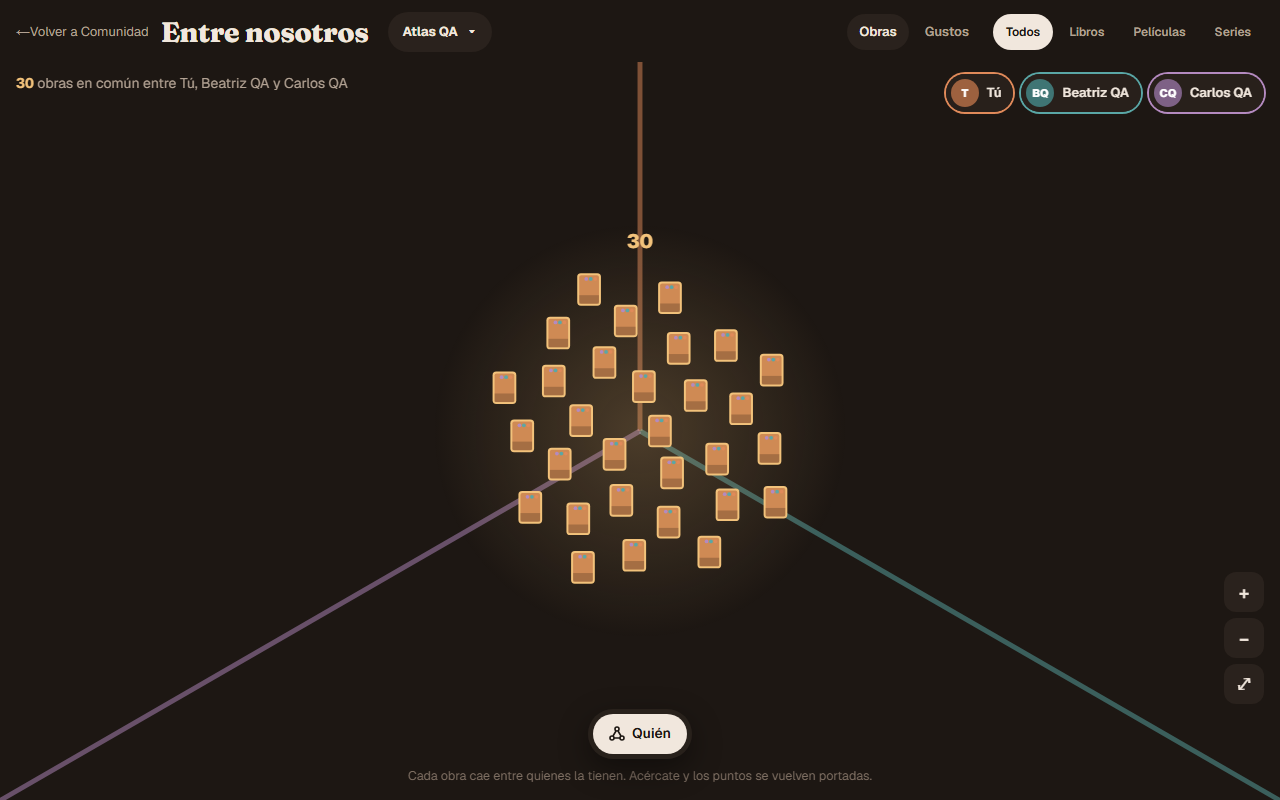
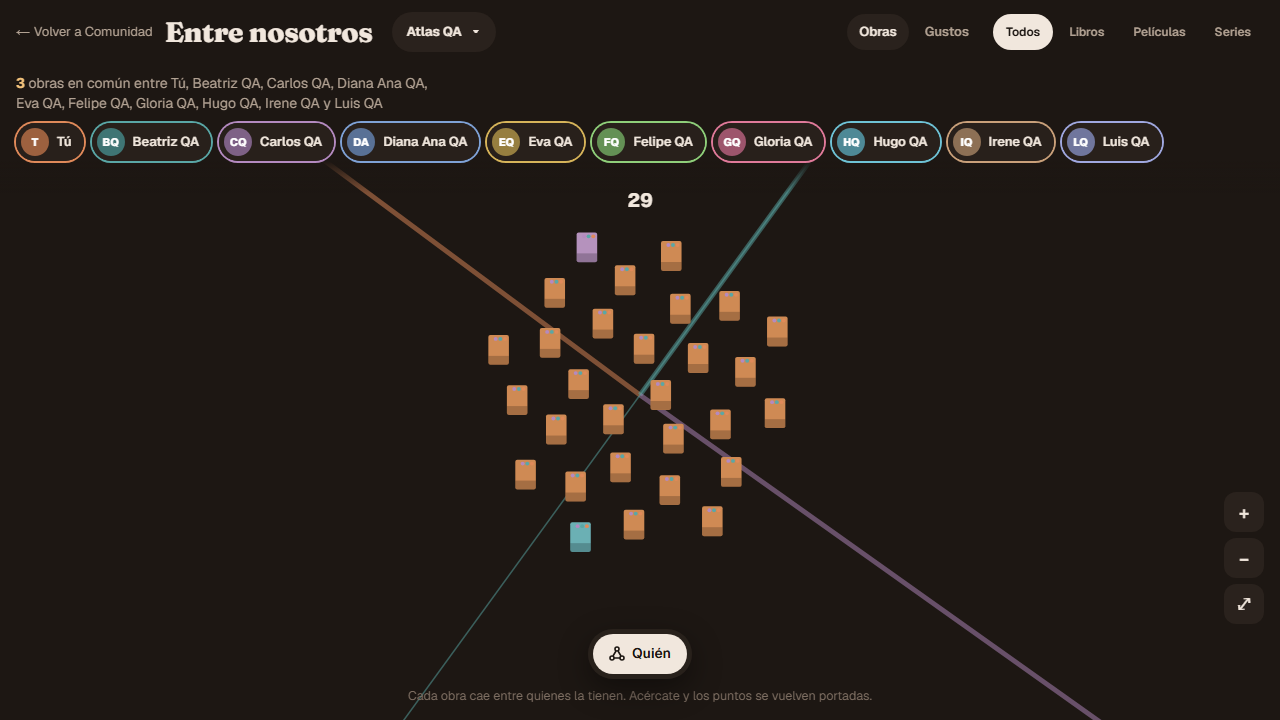
fix(entre-nosotros): cabecera móvil compacta, velo del atlas, vuelo a portadas y títulos legibles
Arregla los seis problemas visuales de las capturas de F1: cabecera móvil en dos filas (flecha solo icono, secciones y formatos en una fila desplazable), aros de las caras sin recortar, velo bajo resumen y caras con encaje que respeta las capas, «Abrir ficha» en una línea, vuelo al grupo en nivel portadas con títulos de 9-14 px y hoja de grupos como tarjeta completa. Capturas retomadas y evidencia actualizada.

diff --git a/src/components/comparisons/atlas/atlas-engine.ts b/src/components/comparisons/atlas/atlas-engine.ts
@@ -10,7 +10,9 @@ export const TITLE_ZOOM = 3.2;
 export type AtlasHit = { key: WorkKey; x: number; y: number };
 export type EngineProps = { people: AtlasPerson[]; works: AtlasWork[]; active: string[]; layout: QuienLayout;
   countLabel: (count: number) => string; onTogglePerson: (id: string) => void;
-  onHover: (hit: AtlasHit | null) => void; onActivate: (hit: AtlasHit | null, pointerType: string) => void };
+  onHover: (hit: AtlasHit | null) => void; onActivate: (hit: AtlasHit | null, pointerType: string) => void;
+  /** Screen space covered by the overlays (summary + faces on top, lens dock below); fit and fly-to frame the free band. */
+  insets?: { top: number; bottom: number } };
 type Sprite = { x: number; y: number; tx: number; ty: number; a: number; ta: number; hl: number; thl: number };
 type Palette = { fg: string; muted: string; line: string; glow: string; cream: string; font: string;
   type: Record<AtlasWork['itemType'], string> };
@@ -33,14 +35,19 @@ export function createAtlasEngine(canvas: HTMLCanvasElement, host: HTMLElement, 
   let extentKey = ''; let raf = 0; let disposed = false; let dirtyProbe = true;
   const sprites = new Map<WorkKey, Sprite>();
 
-  const fitCamera = () => fit(props().layout.extent, vp, { x: 32, y: 150 });
+  const insets = () => props().insets ?? { top: 75, bottom: 75 };
+  /** Shifts a camera so that its focus lands in the middle of the band between the overlays. */
+  const framed = (c: Camera): Camera => { const { top, bottom } = insets(); return { ...c, y: c.y - (top - bottom) / 2 / c.k }; };
+  const fitCamera = () => { const { top, bottom } = insets(); return framed(fit(props().layout.extent, vp, { x: 32, y: top + bottom + 24 })); };
+  let lastFit: Camera | null = null; let insetsKey = '';
+  const refit = () => { lastFit = fitCamera(); target = lastFit; };
   function kick() { dirtyProbe = true; if (!raf && !disposed && typeof requestAnimationFrame === 'function') raf = requestAnimationFrame(frame); }
   function resize() {
     dpr = Math.min(2, globalThis.devicePixelRatio || 1);
     vp = { width: host.clientWidth, height: host.clientHeight };
     canvas.width = Math.round(vp.width * dpr); canvas.height = Math.round(vp.height * dpr);
     palette = readPalette(host);
-    if (!fitted && vp.width > 0 && vp.height > 0) { cam = fitCamera(); fitted = true; }
+    if (!fitted && vp.width > 0 && vp.height > 0) { cam = lastFit = fitCamera(); fitted = true; }
     kick();
   }
   function sync() {
@@ -55,7 +62,14 @@ export function createAtlasEngine(canvas: HTMLCanvasElement, host: HTMLElement, 
     }
     for (const key of [...sprites.keys()]) if (!seen.has(key)) sprites.delete(key);
     const nextExtent = JSON.stringify(layout.extent);
-    if (nextExtent !== extentKey) { extentKey = nextExtent; if (fitted) target = fitCamera(); }
+    if (nextExtent !== extentKey) { extentKey = nextExtent; if (fitted) refit(); }
+    // Overlays measured after the first fit: reframe only while the camera still rests on (or heads to) that fit.
+    const nextInsets = JSON.stringify(insets());
+    if (nextInsets !== insetsKey) {
+      insetsKey = nextInsets;
+      const atFit = lastFit && ((target ?? cam) === lastFit || (!target && Math.abs(cam.k / lastFit.k - 1) < 0.002 && Math.hypot(cam.x - lastFit.x, cam.y - lastFit.y) < 0.5));
+      if (fitted && atFit) refit();
+    }
     kick();
   }
   function frame() {
@@ -83,13 +97,30 @@ export function createAtlasEngine(canvas: HTMLCanvasElement, host: HTMLElement, 
   function text(value: string, x: number, y: number, font: string, color: string, align: CanvasTextAlign = 'left') {
     ctx!.font = font; ctx!.fillStyle = color; ctx!.textAlign = align; ctx!.fillText(value, x, y); ctx!.textAlign = 'left';
   }
-  function wrap(value: string, maxWidth: number): string[] {
+  /** Word wrap that also breaks words wider than the cover; at most `max` lines, the last one with an ellipsis if cut. */
+  function wrap(value: string, maxWidth: number, max = 3): string[] {
+    const fits = (t: string) => ctx!.measureText(t).width <= maxWidth;
     const lines: string[] = []; let line = '';
-    for (const word of value.split(' ')) {
+    const push = (t: string) => { lines.push(t); return lines.length < max; };
+    outer: for (const word of value.split(/\s+/).filter(Boolean)) {
       const next = line ? `${line} ${word}` : word;
-      if (ctx!.measureText(next).width > maxWidth && line) { lines.push(line); line = word; } else line = next;
+      if (fits(next)) { line = next; continue; }
+      if (line) { if (!push(line)) { line = ''; lines[lines.length - 1] += ` ${word}`; break; } line = ''; }
+      let rest = word;
+      while (!fits(rest)) {
+        let n = 1; while (n < rest.length && fits(rest.slice(0, n + 1))) n++;
+        if (!push(rest.slice(0, n))) { lines[lines.length - 1] += rest.slice(n); line = ''; break outer; }
+        rest = rest.slice(n);
+      }
+      line = rest;
     }
-    lines.push(line); return lines.slice(0, 3);
+    if (line && lines.length < max) lines.push(line);
+    const last = lines.length - 1;
+    if (last >= 0 && !fits(lines[last])) {
+      let cut = lines[last]; while (cut.length > 1 && !fits(`${cut}…`)) cut = cut.slice(0, -1);
+      lines[last] = `${cut}…`;
+    }
+    return lines;
   }
   function roundRect(x: number, y: number, w: number, h: number, r: number) {
     ctx!.beginPath(); ctx!.roundRect(x, y, w, h, r);
@@ -138,9 +169,16 @@ export function createAtlasEngine(canvas: HTMLCanvasElement, host: HTMLElement, 
         ctx.arc(x + cw - (1.6 + i * 1.9) * k, y + 1.6 * k, 0.8 * k, 0, Math.PI * 2); ctx.fill();
       });
       if (titles && work.title) {
-        ctx.font = `600 ${1.5 * k}px ${palette.font}`; ctx.fillStyle = '#fff';
-        const lines = wrap(work.title, cw - 1.6 * k);
-        lines.forEach((line, i) => ctx.fillText(line, x + 0.8 * k, y + ch - 0.9 * k - (lines.length - 1 - i) * 1.7 * k));
+        // Legible size regardless of zoom, wrapped to the cover with a scrim behind it.
+        const size = Math.min(14, Math.max(9, 1.5 * k)), step = size * 1.15, pad = Math.max(2, 0.6 * k);
+        ctx.font = `600 ${size}px ${palette.font}`;
+        const lines = wrap(work.title, cw - pad * 2);
+        const band = lines.length * step + pad * 1.4;
+        ctx.save(); roundRect(x, y, cw, ch, 1 + k * 0.4); ctx.clip();
+        ctx.fillStyle = 'rgba(20,14,10,.72)'; ctx.fillRect(x, y + ch - band, cw, band);
+        ctx.fillStyle = '#fff'; ctx.textBaseline = 'alphabetic';
+        lines.forEach((line, i) => ctx.fillText(line, x + pad, y + ch - pad - (lines.length - 1 - i) * step - size * 0.18));
+        ctx.restore();
       }
     }
     ctx.globalAlpha = 1;
@@ -176,7 +214,8 @@ export function createAtlasEngine(canvas: HTMLCanvasElement, host: HTMLElement, 
     if (pole) { onTogglePerson(pole.userId); return; }
     if (cam.k <= COVER_ZOOM) {
       const cluster = layout.clusters.find(item => dist(toScreen(cam, vp, item), p) < item.r * cam.k + 6);
-      if (cluster) { target = { x: cluster.x, y: cluster.y, k: clamp(Math.min(vp.width, vp.height) * 0.42 / cluster.r, 1.6, 10) }; kick(); return; }
+      if (cluster) { const band = Math.max(1, vp.height - insets().top - insets().bottom);
+        target = framed({ x: cluster.x, y: cluster.y, k: clamp(Math.min(vp.width, band) * 0.38 / cluster.r, 1.6, 2.8) }); kick(); return; }
     }
     const hit = hitWork(p);
     if (hit) { lastTap = null; onActivate(hit, pointerType); return; }
@@ -224,7 +263,7 @@ export function createAtlasEngine(canvas: HTMLCanvasElement, host: HTMLElement, 
   return {
     sync,
     zoomBy(factor: number) { target = { ...(target ?? cam), k: clamp((target ?? cam).k * factor, MIN_ZOOM, MAX_ZOOM) }; kick(); },
-    fitAll() { target = fitCamera(); kick(); },
+    fitAll() { refit(); kick(); },
     dispose() {
       disposed = true; if (raf) cancelAnimationFrame(raf); observer?.disconnect();
       canvas.removeEventListener('pointerdown', onDown); canvas.removeEventListener('pointermove', onMove);

diff --git a/src/components/comparisons/atlas/atlas-view.tsx b/src/components/comparisons/atlas/atlas-view.tsx
@@ -1,5 +1,5 @@
 'use client';
-import { useMemo, useRef, useState, type CSSProperties, type ReactNode } from 'react';
+import { useLayoutEffect, useMemo, useRef, useState, type CSSProperties, type ReactNode } from 'react';
 import Link from 'next/link';
 import { useRouter } from 'next/navigation';
 import { useLocale, useTranslations } from 'next-intl';
@@ -46,6 +46,21 @@ export function AtlasView({ snapshot, viewerId, notice, chosen, onChosenChange }
   const [hover, setHover] = useState<AtlasHit | null>(null);
   const [picked, setPicked] = useState<WorkKey | null>(null);
   const camera = useRef<AtlasCanvasHandle>(null);
+  const stage = useRef<HTMLDivElement>(null); const overlay = useRef<HTMLDivElement>(null); const dock = useRef<HTMLDivElement>(null);
+  const [insets, setInsets] = useState<{ top: number; bottom: number } | undefined>(undefined);
+  // The camera frames the band left free by the overlays (summary + faces, lens dock), whatever their height.
+  useLayoutEffect(() => {
+    const measure = () => {
+      const host = stage.current, top = overlay.current, bottom = dock.current; if (!host || !top || !bottom) return;
+      const next = { top: Math.round(top.offsetHeight - parseFloat(getComputedStyle(top).paddingBottom || '0')), bottom: Math.round(host.clientHeight - bottom.offsetTop) };
+      setInsets(current => current && current.top === next.top && current.bottom === next.bottom ? current : next);
+    };
+    measure();
+    if (typeof ResizeObserver !== 'function') return;
+    const observer = new ResizeObserver(measure);
+    for (const element of [stage.current, overlay.current, dock.current]) if (element) observer.observe(element);
+    return () => observer.disconnect();
+  }, []);
   const summary = summarizeQuien(people, works, active);
   const list = new Intl.ListFormat(locale, { type: 'conjunction' });
   const bold = (chunks: ReactNode) => <b>{chunks}</b>;
@@ -66,10 +81,10 @@ export function AtlasView({ snapshot, viewerId, notice, chosen, onChosenChange }
   const sheet = picked && byKey.get(picked);
   const unavailable = snapshot.group.members.filter(member => !member.available);
 
-  return <div className={styles.canvasWrap} data-comparison-stage>
-    <AtlasCanvas ref={camera} label={t('atlas.canvasLabel')} people={people} works={works} active={active} layout={layout}
+  return <div ref={stage} className={styles.canvasWrap} data-comparison-stage>
+    <AtlasCanvas ref={camera} label={t('atlas.canvasLabel')} people={people} works={works} active={active} layout={layout} insets={insets}
       countLabel={count => t('atlas.poleCount', { count })} onTogglePerson={toggle} onHover={setHover} onActivate={activate}/>
-    <div className={styles.overlayTop}>
+    <div ref={overlay} className={styles.overlayTop}>
       <div><p className={styles.summary} role="status" aria-live="polite">{summary.kind === 'solo'
         ? t.rich('atlas.summary.solo', { count: summary.count, name: summary.name, b: bold })
         : t.rich('atlas.summary.common', { count: summary.count, names: list.format(summary.names), b: bold })}</p>
@@ -88,7 +103,7 @@ export function AtlasView({ snapshot, viewerId, notice, chosen, onChosenChange }
       <button type="button" aria-label={t('atlas.zoomOut')} onClick={() => camera.current?.zoomBy(1 / 1.8)}>−</button>
       <button type="button" aria-label={t('atlas.zoomFit')} onClick={() => camera.current?.fit()}>⤢</button>
     </div>
-    <div className={styles.dock}>
+    <div ref={dock} className={styles.dock}>
       <div className={styles.lens} role="group" aria-label={t('atlas.lenses')}>
         <button type="button" aria-pressed="true" aria-label={t('atlas.lens.quien')}>
           <svg viewBox="0 0 16 16" fill="none" stroke="currentColor" strokeWidth="1.6" aria-hidden="true"><circle cx="8" cy="3" r="2"/><circle cx="3" cy="12" r="2"/><circle cx="13" cy="12" r="2"/><path d="M7 5 4 10M9 5l3 5M5 12h6"/></svg>

diff --git a/src/components/comparisons/explorer.module.css b/src/components/comparisons/explorer.module.css
@@ -58,7 +58,8 @@
   position: fixed; inset: 0; display: flex; flex-direction: column; background: var(--atlas-ground); color: var(--atlas-fg); overflow: hidden; font-family: var(--font-geist-sans), sans-serif; }
 .bar { display: flex; flex-wrap: wrap; align-items: center; gap: 8px 12px; padding: calc(10px + env(safe-area-inset-top, 0px)) 16px 8px; z-index: 3; }
 .bar h1 { font-size: clamp(20px, 2.4vw, 28px); font-weight: 800; letter-spacing: -.01em; margin: 0 8px 0 0; }
-.back { color: var(--atlas-muted); font-size: 13px; min-height: 44px; display: inline-flex; align-items: center; }
+.back { color: var(--atlas-muted); font-size: 13px; min-height: 44px; display: inline-flex; align-items: center; gap: 4px; }
+.barNav { display: contents; }
 .barSpacer { flex: 1; }
 .groupChip { display: inline-flex; align-items: center; gap: 8px; min-height: 40px; padding: 0 14px; border-radius: 999px; background: var(--atlas-panel); color: var(--atlas-fg); font-size: 13px; font-weight: 700; max-width: 60vw; }
 .groupChip span:first-child { overflow: hidden; text-overflow: ellipsis; white-space: nowrap; }
@@ -77,7 +78,7 @@
 .coverageNote { margin: 4px 0 0; font-size: 12px; color: var(--atlas-faint); max-width: 46ch; line-height: 1.4; }
 .immersiveEmpty { padding: 24px 16px; overflow: auto; }
 .immersive .loadingExit, .immersive .workspaceLoading { background: var(--atlas-ground); }
-.groupSheet { margin: auto auto 0; width: min(520px, 100%); border: 0; border-radius: 20px 20px 0 0; background: var(--atlas-panel); color: var(--atlas-fg); padding: 0; }
+.groupSheet { margin: auto auto calc(8px + env(safe-area-inset-bottom, 0px)); width: min(520px, calc(100% - 16px)); max-height: 85dvh; overflow: auto; border: 0; border-radius: 20px; background: var(--atlas-panel); color: var(--atlas-fg); padding: 0; box-shadow: 0 -12px 40px rgba(0,0,0,.5); }
 .groupSheet::backdrop { background: rgba(0,0,0,.55); }
 @media (min-width: 1024px) { .groupSheet { margin: auto; border-radius: 20px; } }
 .groupSheetBody { display: grid; gap: 14px; padding: 20px 20px calc(20px + env(safe-area-inset-bottom, 0px)); }
@@ -85,4 +86,17 @@
 .groupActions { display: flex; flex-wrap: wrap; gap: 8px; }
 .groupActions button { min-height: 44px; padding: 0 16px; border-radius: 999px; background: var(--atlas-ground); color: var(--atlas-fg); font-size: 13px; font-weight: 600; }
 .sheetFooter { font-size: 12px; color: var(--atlas-faint); margin: 0; }
-@media (max-width: 640px) { .bar h1 { font-size: 20px; } .immersive .formats { order: 5; width: 100%; } }
+/* Compact mobile bar: back icon + title + group chip, then one scrolling row of sections and formats. */
+@media (max-width: 640px) {
+  .bar { flex-wrap: wrap; gap: 4px 8px; padding: calc(4px + env(safe-area-inset-top, 0px)) 12px 6px 4px; }
+  .back { justify-content: center; width: 44px; min-width: 44px; font-size: 20px; }
+  .backLabel { display: none; }
+  .bar h1 { font-size: 18px; margin: 0; white-space: nowrap; flex: 0 1 auto; min-width: 0; overflow: hidden; text-overflow: ellipsis; }
+  .barSpacer { display: none; }
+  .groupChip { margin-left: auto; min-height: 40px; max-width: 44vw; flex-shrink: 0; padding: 0 12px; }
+  .barNav { display: flex; align-items: center; gap: 6px; width: calc(100% + 16px); margin: 0 -12px 0 -4px; padding: 0 12px; overflow-x: auto; flex-wrap: nowrap; scrollbar-width: none; }
+  .barNav::-webkit-scrollbar { display: none; }
+  .barNav .tabs, .barNav .formats { flex: none; flex-wrap: nowrap; width: auto; margin: 0; }
+  .immersive .barNav .formats button { flex: none; white-space: nowrap; padding: 0 12px; }
+  .immersive .tab { white-space: nowrap; }
+}

diff --git a/src/components/comparisons/atlas/atlas.module.css b/src/components/comparisons/atlas/atlas.module.css
@@ -1,7 +1,8 @@
 .canvasWrap { position: absolute; inset: 0; overflow: hidden; }
 .canvas { position: absolute; inset: 0; width: 100%; height: 100%; display: block; touch-action: none; cursor: grab; }
 .canvas[data-dragging='true'] { cursor: grabbing; }
-.overlayTop { position: absolute; left: 16px; right: 16px; top: 12px; display: flex; flex-wrap: wrap; gap: 10px 14px; align-items: flex-start; justify-content: space-between; pointer-events: none; z-index: 2; }
+/* The scrim keeps canvas threads from running through the summary and the faces; the container never takes pointers. */
+.overlayTop { position: absolute; left: 0; right: 0; top: 0; --scrim: 32px; padding: 12px 16px var(--scrim); background: linear-gradient(to bottom, var(--atlas-ground) calc(100% - var(--scrim)), transparent); display: flex; flex-wrap: wrap; gap: 10px 14px; align-items: flex-start; justify-content: space-between; pointer-events: none; z-index: 2; }
 .overlayTop > * { pointer-events: auto; }
 .summary { font-size: 14px; color: var(--atlas-muted); max-width: 46ch; line-height: 1.4; margin: 0; }
 .summary b { color: var(--atlas-glow); font-weight: 700; font-variant-numeric: tabular-nums; }
@@ -28,14 +29,20 @@
 .sheet { position: absolute; left: 12px; right: 12px; bottom: calc(12px + env(safe-area-inset-bottom, 0px)); z-index: 4; display: flex; gap: 12px; align-items: flex-start; padding: 14px; border-radius: 18px; background: var(--atlas-panel); box-shadow: 0 -8px 30px rgba(0,0,0,.5); color: var(--atlas-fg); }
 .sheetBody { flex: 1; min-width: 0; display: grid; gap: 10px; }
 .sheetActions { display: flex; gap: 8px; }
-.open { display: inline-flex; align-items: center; min-height: 44px; padding: 0 16px; border-radius: 999px; background: var(--atlas-glow); color: var(--atlas-ground); font-weight: 700; font-size: 14px; }
-.close { min-height: 44px; padding: 0 14px; border-radius: 999px; background: transparent; color: var(--atlas-muted); font-size: 14px; }
+.open { white-space: nowrap; display: inline-flex; align-items: center; min-height: 44px; padding: 0 16px; border-radius: 999px; background: var(--atlas-glow); color: var(--atlas-ground); font-weight: 700; font-size: 14px; }
+.close { white-space: nowrap; min-height: 44px; padding: 0 14px; border-radius: 999px; background: transparent; color: var(--atlas-muted); font-size: 14px; }
 .face:focus-visible, .lens button:focus-visible, .zoom button:focus-visible, .open:focus-visible, .close:focus-visible { outline: 2px solid var(--atlas-glow); outline-offset: 2px; }
 @media (max-width: 640px) {
   .lens button span { position: absolute; width: 1px; height: 1px; overflow: hidden; clip: rect(0 0 0 0); white-space: nowrap; }
   .lens button { padding: 10px 14px; }
   .zoom { display: none; }
-  .faces { flex-wrap: nowrap; overflow-x: auto; justify-content: flex-start; width: 100%; scrollbar-width: none; }
+  /* Inner padding so the 2px active ring is not clipped by the scroller; the negative margin keeps the alignment. */
+  .faces { flex-wrap: nowrap; overflow-x: auto; justify-content: flex-start; width: calc(100% + 8px); margin: -4px; padding: 4px; scrollbar-width: none; }
+  .faces::-webkit-scrollbar { display: none; }
+  /* Actions go under the title and owners so «Abrir ficha» stays on one line. */
+  .sheet { display: grid; grid-template-columns: auto minmax(0, 1fr); column-gap: 12px; row-gap: 10px; }
+  .sheetBody { grid-column: 2; }
+  .sheetActions { justify-content: flex-start; }
   .face { flex: none; }
 }
 @media (prefers-reduced-motion: reduce) { .face { transition: none; } }

diff --git a/src/components/comparisons/explorer.tsx b/src/components/comparisons/explorer.tsx
@@ -226,7 +226,7 @@ function ExplorerSession({ initialGroups, candidates, viewerId }: Props) {
   </>;
   return <div className={`dark ${styles.immersive}`}>
     <header className={styles.bar}>
-      <Link href="/comunidad" className={styles.back}><span aria-hidden="true">←</span> {t('backToCommunity')}</Link>
+      <Link href="/comunidad" className={styles.back} aria-label={t('backToCommunity')}><span aria-hidden="true">←</span><span className={styles.backLabel} aria-hidden="true">{t('backToCommunity')}</span></Link>
       <h1>{t('title')}</h1>
       <GroupSheet chipRef={groupChip} choices={choices} value={state.groupId} unsavedId={withGroup?.id ?? null} activeName={active?.name ?? null}
         canEdit={!!active && !activeIsUnsaved} canSaveUnsaved={activeIsUnsaved && !!withGroup} showRefresh={!!active}
@@ -235,10 +235,10 @@ function ExplorerSession({ initialGroups, candidates, viewerId }: Props) {
         onSaveUnsaved={() => withGroup && setEditor({ group: null, people: withGroup.members.flatMap(member => member.userId ? [member.userId] : []) })}
         onRefresh={refresh}/>
       <span className={styles.barSpacer}/>
-      {active && <>
+      {active && <div className={styles.barNav}>
         <nav aria-label={t('sections')} className={styles.tabs}>{(['works', 'tastes'] as const).map(section => <button key={section} type="button" aria-pressed={state.section === section} onClick={() => selectSection(section)} className={styles.tab}>{t(section)}</button>)}</nav>
         <div className={styles.formats} role="group" aria-label={t('formatPills')}>{(['all', 'book', 'movie', 'series'] as const).map(next => <button key={next} type="button" aria-pressed={format === next} onClick={() => setFormat(next)}>{t(next === 'all' ? 'allFormatsShort' : `formats.${next}`)}</button>)}</div>
-      </>}
+      </div>}
     </header>
     {editor && <GroupEditor key={editor.group?.id ?? 'new'} group={editor.group} initialPeople={editor.people} candidates={candidates} viewerId={viewerId} onSaved={onSaved} onDeleted={id => { setGroups(current => current.filter(group => group.id !== id)); selectGroup(null); }} onCancel={() => { setEditor(null); groupChip.current?.focus(); }} onReload={() => { setEditor(null); groupChip.current?.focus(); refresh(); router.refresh(); }}/>}
     {!choices.length && !editor && <div className={styles.immersiveEmpty}>{candidates.some(person => person.userId !== viewerId)

diff --git a/src/components/comparisons/atlas/atlas-canvas.tsx b/src/components/comparisons/atlas/atlas-canvas.tsx
@@ -15,7 +15,7 @@ export function AtlasCanvas({ ref, label, ...props }: Props) {
     engine.current = created;
     return () => { created.dispose(); engine.current = null; };
   }, []);
-  useEffect(() => { engine.current?.sync(); }, [props.layout, props.active, props.works]);
+  useEffect(() => { engine.current?.sync(); }, [props.layout, props.active, props.works, props.insets?.top, props.insets?.bottom]);
   useImperativeHandle(ref, () => ({ zoomBy: factor => engine.current?.zoomBy(factor), fit: () => engine.current?.fitAll() }), []);
   return <div ref={host} className={styles.canvasWrap} data-atlas-moving="false">
     <canvas ref={canvas} className={styles.canvas} role="img" aria-label={label}/>

diff --git a/docs/testing/2026-10-13-entre-nosotros-atlas-f1.md b/docs/testing/2026-10-13-entre-nosotros-atlas-f1.md
@@ -29,10 +29,10 @@ Los e2e son los de la Task 9 (informe en `.superpowers/sdd/task-9-report.md`), c
 
 Carpeta `docs/testing/assets/2026-10-13-entre-nosotros-atlas-f1/`. Generadas con un script Playwright desechable (no commiteado).
 
-Escritorio 1280×800:
+Escritorio 1280×720 (retomadas tras los arreglos visuales; antes eran 1280×800):
 - [desktop-map.png](assets/2026-10-13-entre-nosotros-atlas-f1/desktop-map.png): mapa encajado (zoom de encaje).
-- [desktop-covers.png](assets/2026-10-13-entre-nosotros-atlas-f1/desktop-covers.png): portadas, zoom 2,35.
-- [desktop-titles.png](assets/2026-10-13-entre-nosotros-atlas-f1/desktop-titles.png): títulos, zoom 4,2 (> 3,2).
+- [desktop-covers.png](assets/2026-10-13-entre-nosotros-atlas-f1/desktop-covers.png): portadas, zoom 2,45 (aterrizaje del vuelo al grupo).
+- [desktop-titles.png](assets/2026-10-13-entre-nosotros-atlas-f1/desktop-titles.png): títulos, zoom 4,41 (> 3,2, tras un «Acercar»).
 - [desktop-tooltip.png](assets/2026-10-13-entre-nosotros-atlas-f1/desktop-tooltip.png): tooltip sobre una obra.
 
 Móvil (Pixel 7, con toque):
@@ -40,19 +40,21 @@ Móvil (Pixel 7, con toque):
 - [mobile-sheet.png](assets/2026-10-13-entre-nosotros-atlas-f1/mobile-sheet.png): hoja de una obra («Abrir ficha», «Cerrar»).
 - [mobile-groups.png](assets/2026-10-13-entre-nosotros-atlas-f1/mobile-groups.png): hoja de grupos (selector, Editar grupo, Crear grupo, Actualizar).
 
-## Observaciones visuales (sin tocar código)
+## Arreglos visuales tras F1
 
-Funciona: barra superior, resumen «30 obras en común entre Tú, Beatriz QA y Carlos QA», caras de colores, ejes y nube de puntos; el vuelo al grupo pasa de puntos a portadas y a títulos; el tooltip lista quién tiene la obra; no hay scroll horizontal en móvil (comprobado por el e2e).
+Las capturas de la primera pasada mostraban seis problemas; se arreglaron y las siete capturas se retomaron con el build del arreglo (e2e del atlas: 2 passed, 2 skipped; unitarios de `src/components/comparisons` y `src/lib/comparisons`: 504 pasan).
 
-Detalles dudosos:
-1. **Móvil, fila de caras recortada**: el chip «Tú» tiene el aro cortado en el borde izquierdo y el inferior de la fila (los tres chips se ven con el borde inferior recortado). Parece el `overflow` del contenedor desplazable.
-2. **Móvil, eje sobre el texto**: con zoom en el grupo, el eje vertical de «Tú» sube por encima del mapa y atraviesa el resumen y la fila de caras (`mobile-sheet.png`).
-3. **Escritorio, títulos diminutos**: a zoom 4,2 las etiquetas `qa_comp_motion_NN` miden unos 6-7 px y cuesta leerlas; el zoom del vuelo aterriza ya en 4,2, así que el nivel «portadas» (1,1 a 3,2) solo se ve alejando a mano.
-4. **Escritorio, tooltip**: tapa las obras vecinas y las portadas de la derecha (aceptable para un tooltip, pero conviene mirarlo).
-5. **Móvil, hoja de grupos**: el texto inferior («Solo obras visibles para ti…») queda al ras del borde de la captura; no se ve el cierre de la hoja, puede quedar recortada.
-6. **Móvil, sin botones de zoom**: no hay Acercar/Alejar/Ver todo (probable decisión de diseño, solo gestos).
-7. **Carga**: antes de que llegue la comparación se ve el loader «Cargando comparación…» (visto en una primera captura); la captura final espera a que desaparezca.
-8. **Portadas**: son placeholders de color (sin imagen), como se espera en F1.
+1. **Cabecera móvil (≤ 640 px) ocupaba un tercio de la pantalla.** Ahora la fila 1 es la flecha «Volver» solo icono (nombre accesible «Volver a Comunidad» por `aria-label`), el título a 18 px y el chip de grupo; la fila 2 junta secciones y formatos en una única fila con scroll horizontal y sin barra. Altura medida: 94 px a 412 px de ancho (antes ~150). Escritorio sin cambios.
+2. **Aro de la cara activa recortado.** La fila de caras móvil tiene 4 px de relleno interior y margen negativo que lo compensa; los aros se ven enteros.
+3. **Hilos del lienzo atravesando resumen y caras.** `.overlayTop` lleva un velo (`--atlas-ground` sólido y degradado a transparente en los 32 px de abajo), con `pointer-events: none` en el contenedor. Para que el velo no tape polos ni la etiqueta del grupo, el encaje y el vuelo al grupo enmarcan la franja libre entre la capa superior y el dock (la vista mide ambas con `ResizeObserver` y se las pasa al motor como `insets`); al cambiar la altura de la capa solo se reencaja si la cámara sigue en el encaje.
+4. **«Abrir ficha» partido en dos líneas.** Botones con `white-space: nowrap`; en móvil las acciones van debajo del título y los dueños.
+5. **El vuelo al grupo saltaba a títulos (k≈4,2) con letra de 6-7 px.** El vuelo se limita a `[1,6; 2,8]` (calculado con la franja libre y factor 0,38), así que aterriza en portadas. Los títulos (umbrales 1,1 y 3,2 intactos) usan `min(14, max(9, 1,5·k))` px, se ajustan al ancho de la portada (partiendo palabras largas), máximo 3 líneas con elipsis, sobre una banda oscura.
+6. **Hoja de grupos al ras del borde inferior.** El `<dialog>` es una tarjeta redondeada entera con margen inferior que incluye `env(safe-area-inset-bottom)`, `max-height: 85dvh` y `overflow: auto`; todos los botones quedan visibles.
+
+Queda:
+- Títulos sin espacios y largos (como `qa_comp_motion_NN`) se parten por caracteres y acaban en elipsis a zoom bajo de títulos; se leen enteros acercando más.
+- Con 10 personas, en el mapa la etiqueta de un grupo pequeño puede quedar bajo un polo (p. ej. el «2» junto a Beatriz QA): es de la disposición, no de estos arreglos.
+- Siguen igual que en F1: el tooltip de escritorio tapa obras vecinas; en móvil no hay botones de zoom (solo gestos); portadas de color sin imagen (F4).
 
 ## No verificado
 
